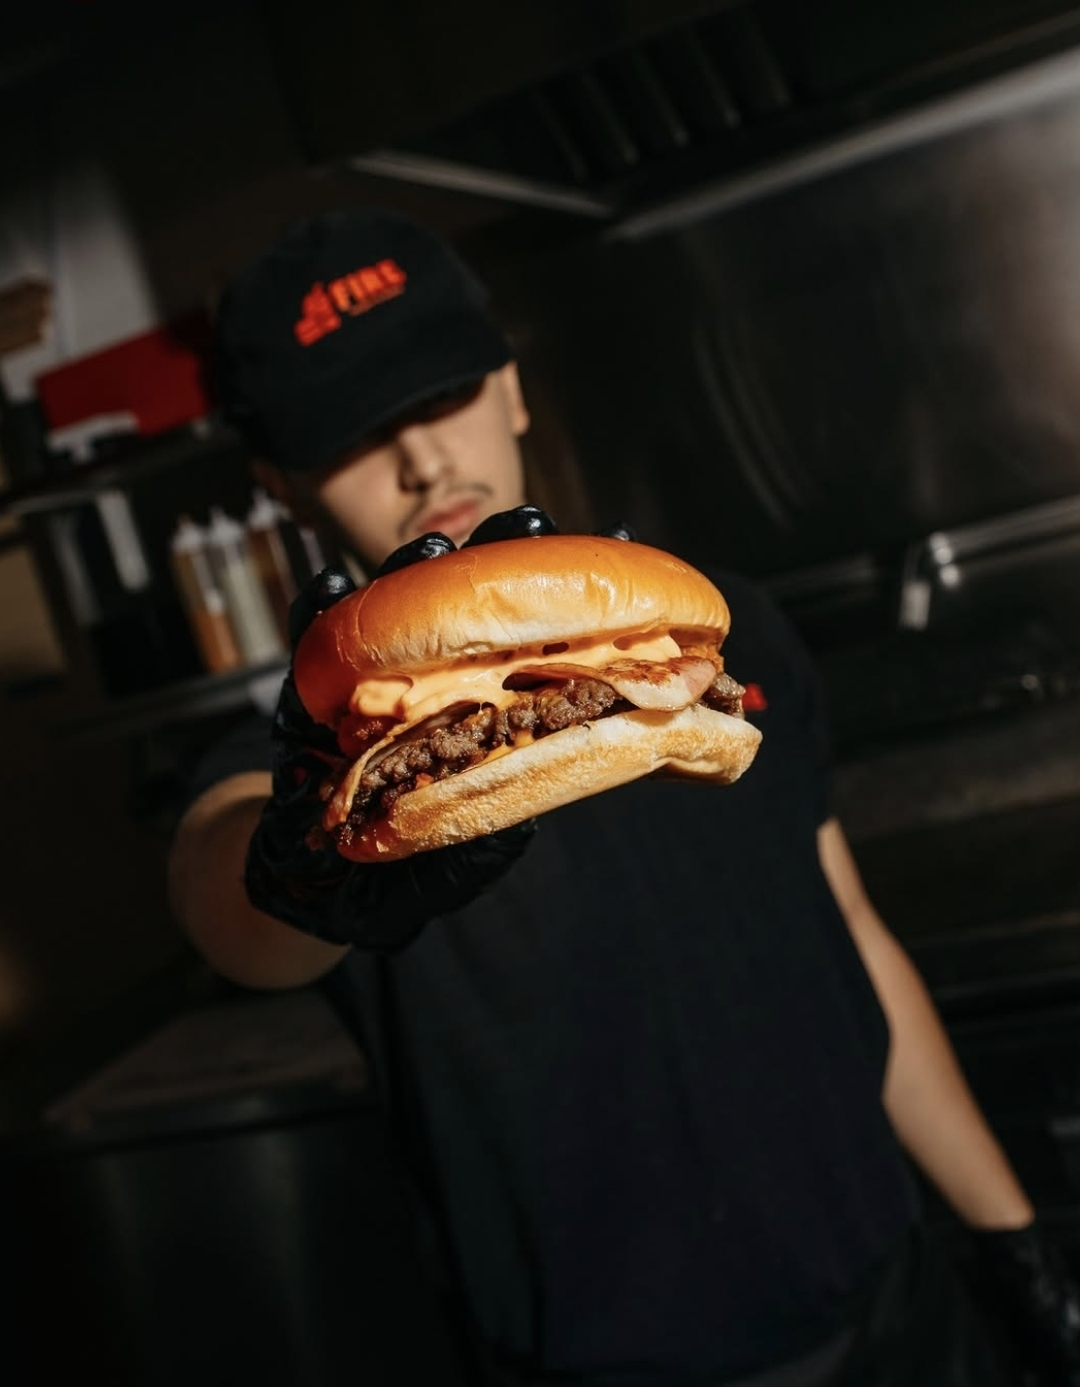
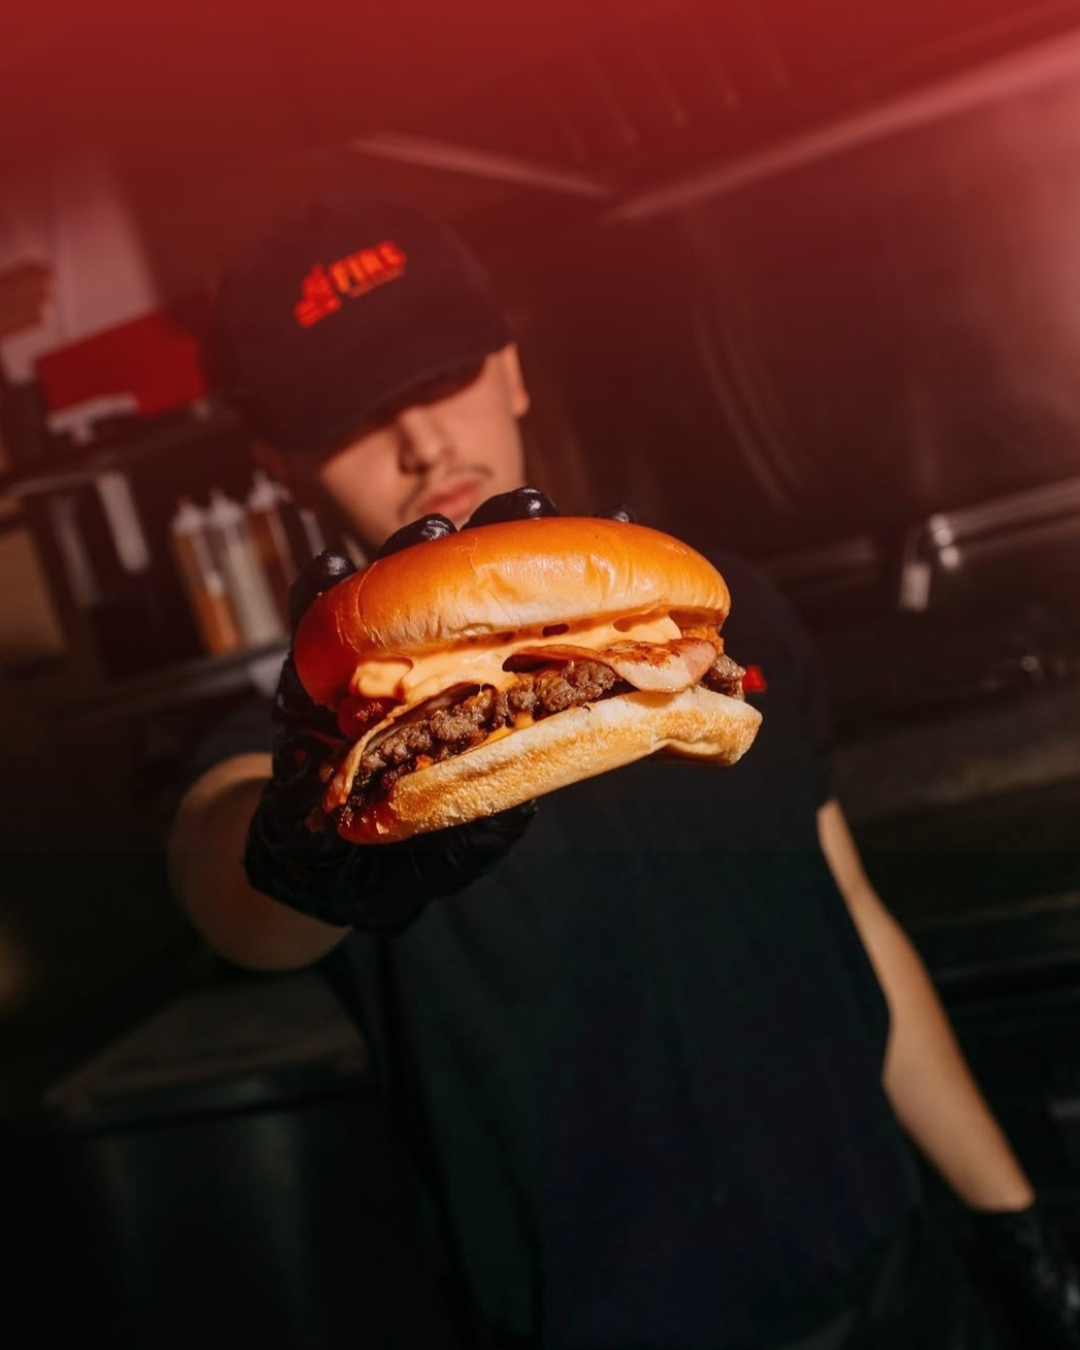
first commit

diff --git a/index.html b/index.html
@@ -150,6 +150,42 @@
       height: 100%;
       border: 0;
     }
+
+    /* Shake decorativo nella sezione Chi Siamo */
+    .shake-deco {
+      position: absolute;
+      bottom: -30px;
+      right: -20px;
+      width: 320px;
+      opacity: 0.75;
+      transform: rotate(15deg);
+      pointer-events: none;
+      filter: drop-shadow(0 8px 24px rgba(0,0,0,0.6));
+      transition: opacity 0.3s;
+    }
+
+    .shake-deco-left {
+      position: absolute;
+      top: 0px;
+      left: -20px;
+      width: 260px;
+      opacity: 0.55;
+      transform: rotate(-20deg) scaleX(-1);
+      pointer-events: none;
+      filter: drop-shadow(0 8px 20px rgba(0,0,0,0.5));
+    }
+
+    @media (max-width: 768px) {
+      .shake-deco {
+        width: 180px;
+        right: -10px;
+        bottom: -10px;
+        opacity: 0.6;
+      }
+      .shake-deco-left {
+        display: none;
+      }
+    }
   </style>
 </head>
 <body class="font-body bg-grid-lines text-white antialiased selection:bg-black selection:text-white">
@@ -201,21 +237,38 @@
 
 
 
-<section id="chi-siamo" class="py-16 relative z-10 border-t border-white/10 backdrop-blur-[1px]">
-  <div class="max-w-3xl mx-auto px-6 text-center">
+<section id="chi-siamo" class="pt-6 pb-16 relative z-10 border-t border-white/10 backdrop-blur-[1px] overflow-hidden">
+
+  <!-- Shake decorativo destra -->
+  <img src="sfondoshake.png" alt="" class="shake-deco" aria-hidden="true">
+
+  <!-- Shake decorativo sinistra -->
+  <img src="sfondoshake.png" alt="" class="shake-deco-left" aria-hidden="true">
+
+  <div class="max-w-3xl mx-auto px-6 text-center relative z-10">
     <h2 class="font-title text-3xl sm:text-5xl font-bold text-white mb-8">
       CHI SIAMO
     </h2>
     <div class="space-y-6 text-white/95 text-base sm:text-lg leading-relaxed text-justify sm:text-center font-medium max-w-2xl mx-auto">
-      <p>FIRE nasce dall’idea di portare qualcosa di nuovo a Bassano del Grappa. Siamo stati i primi a introdurre lo <strong class="text-black font-bold">SMASH BURGER</strong> in città e, successivamente, anche i <strong class="text-black font-bold">FRENCH TACOS</strong>: due prodotti diventati il cuore della nostra identity.</p>
-      <p>Ma non ci siamo limitati a seguirne la tradizione. Li abbiamo reinterpretati a modo nostro, creando un gusto unico, riconoscibile e impossibile da trovare altrove. Ogni ricetta è pensata per unire qualità, carattere e un’esperienza diversa dal solito, con ingredienti freschi e preparazioni fatte al momento.</p>
+      <p>FIRE nasce dall'idea di portare qualcosa di nuovo a Bassano del Grappa. Siamo stati i primi a introdurre lo <strong class="text-black font-bold">SMASH BURGER</strong> in città e, successivamente, anche i <strong class="text-black font-bold">FRENCH TACOS</strong>: due prodotti diventati il cuore della nostra identity.</p>
+      <p>Ma non ci siamo limitati a seguirne la traditione. Li abbiamo reinterpretati a modo nostro, creando un gusto unico, riconoscibile e impossibile da trovare altrove. Ogni ricetta è pensata per unire qualità, carattere e un'esperienza diversa dal solito, con ingredienti freschi e preparazioni fatte al momento.</p>
       <p>Fire è un concept giovane, moderno e inclusivo con un menu <strong class="text-black font-extrabold">100% HALAL</strong> dove street food e attenzione ai dettagli si incontrano in un ambiente accogliente e contemporaneo. Un posto creato per chi cerca sapori autentici, ma con una personalità tutta nuova.</p>
     </div>
   </div>
 </section>
 
-<section class="py-16 border-t border-white/10">
-  <div class="max-w-6xl mx-auto px-6">
+<section class="relative py-16 border-t border-white/10 overflow-hidden">
+  
+  <div class="absolute inset-0 z-0">
+    <div class="absolute inset-0 bg-[url('sfondocibi.png')] bg-[size:100%_auto] bg-center bg-no-repeat"
+         style="mask-image: linear-gradient(to bottom, transparent 0%, black 15%, black 85%, transparent 100%);
+                -webkit-mask-image: linear-gradient(to bottom, transparent 0%, black 15%, black 85%, transparent 100%);">
+    </div>
+    
+    <div class="absolute inset-0 bg-gradient-to-b from-[#ff1a1a] via-black/40 to-[#ff1a1a]"></div>
+  </div>
+
+  <div class="relative z-10 max-w-6xl mx-auto px-6">
     <div class="text-center mb-16">
       <h2 class="font-title text-3xl sm:text-5xl font-bold text-white mb-2">DOVE TROVARCI</h2>
         <p class="text-black font-extrabold text-base sm:text-lg">Passa a trovarci nei seguenti punti vendita:</p>